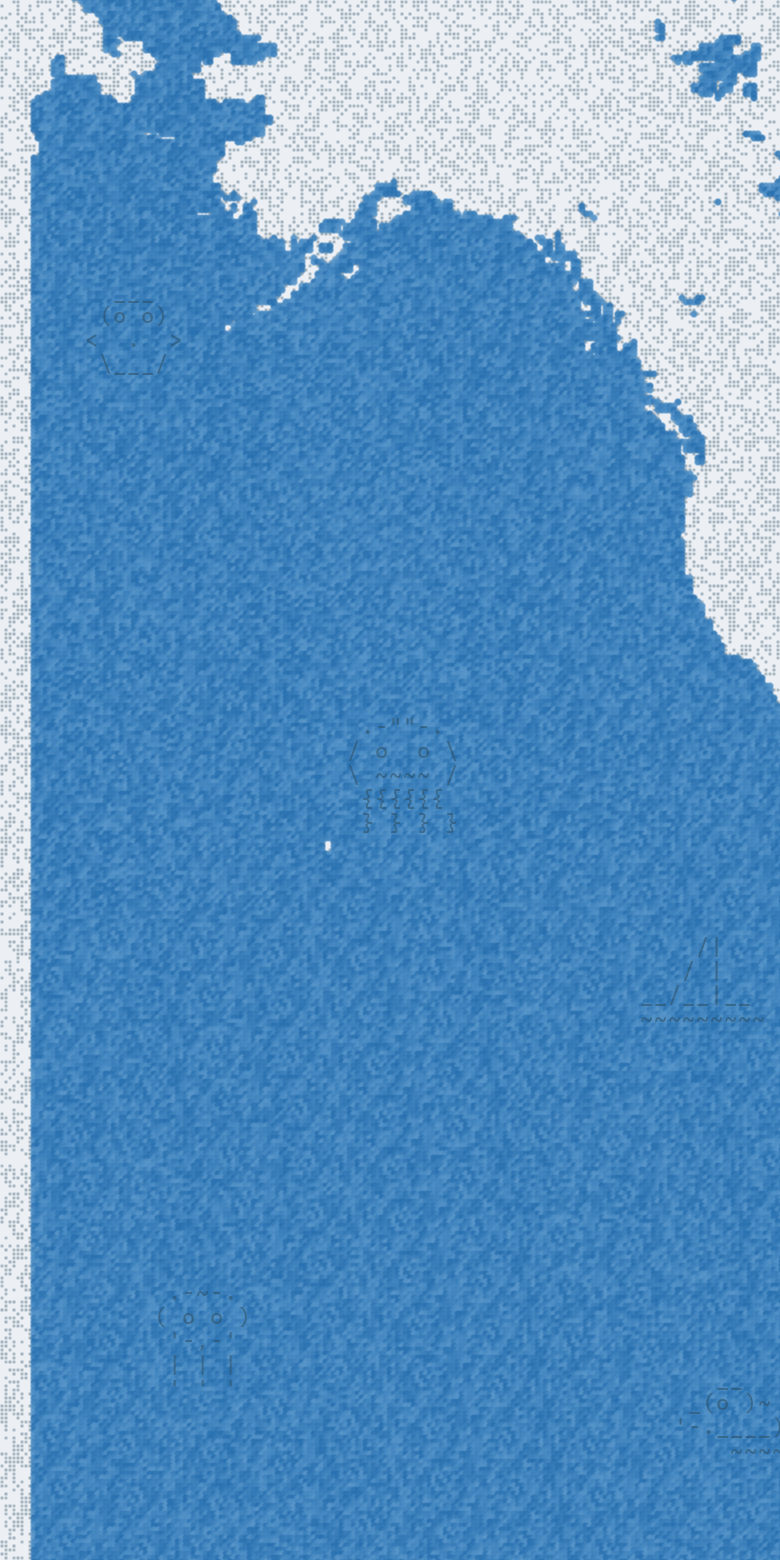
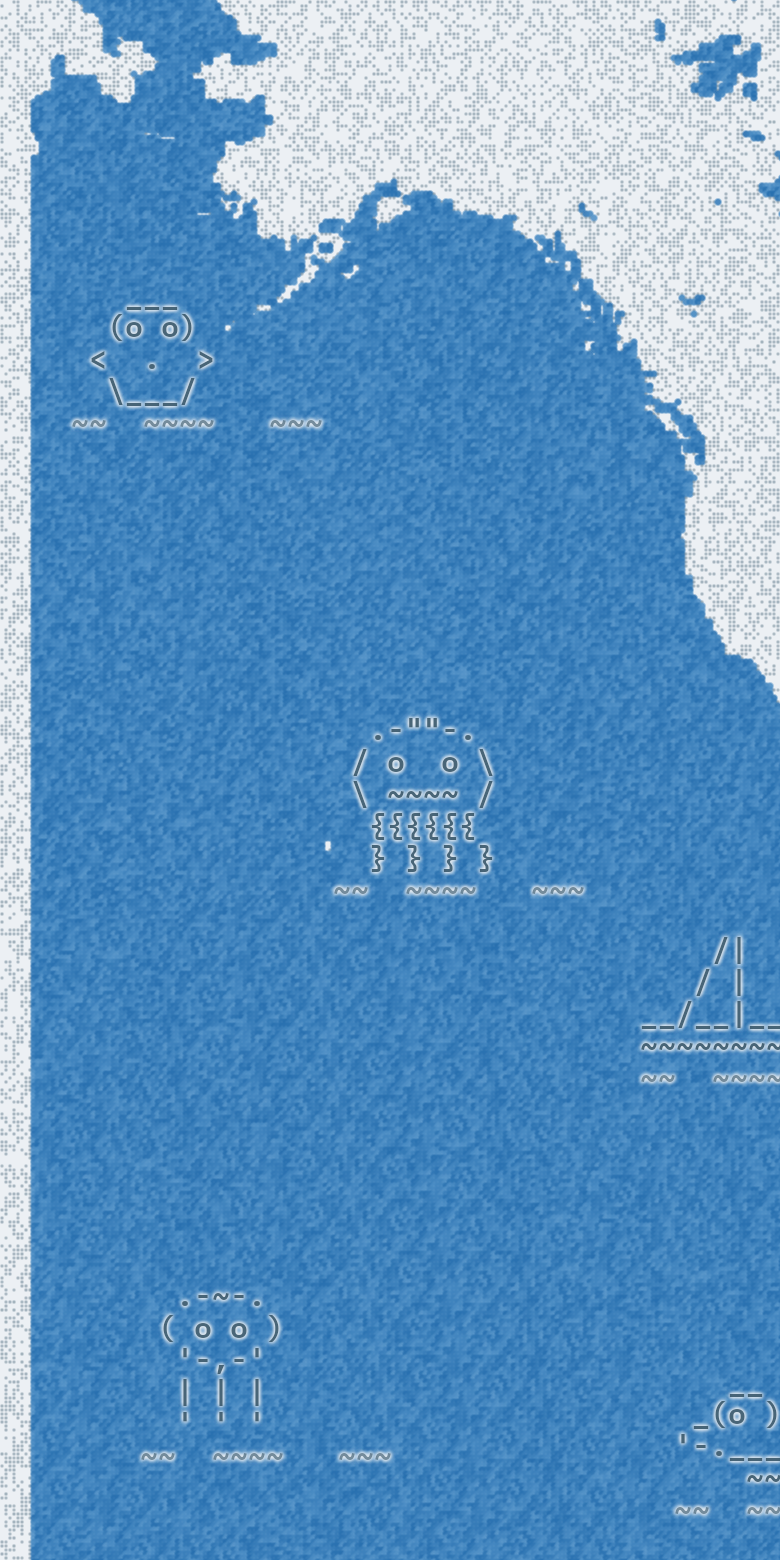
feat(map): make the ocean cryptids read
They were barely noticeable. Four things were wrong at once, and the halo is the
one that actually mattered.

A stippled dot field is the worst possible ground for thin ASCII: the strokes
and the dots are the same width, so an outline dissolves into the water however
dark you make the ink. Every glyph now sits on a background-coloured halo — the
same trick the name chips use, which are on an island-coloured plate for exactly
this reason, minus the hard chip edge that would look wrong around a piece of
art. It inverts correctly for free: in a dark scheme the halo is dark and the ink
is light, so one rule pops in both.

The rest is weight. IBM Plex Mono 600 instead of 500 (already loaded by
`app/_layout.tsx`, so no new font), 15px instead of 11, and full opacity instead
of 0.55.

Each figure also gets a wave row beneath it, drifting COUNTER to the figure's own
bob — the relative motion is what reads as swimming; waves moving with the
creature would just look like part of it. The row is picked per anchor by the
same hash that seeds the drift, so a group of them never lines up into one ruled
edge.

`map-shot.ts` mirrors all of it, including the halo (a repeated blurred pass,
since one Skia blur is far fainter than RN's solid `textShadowRadius` glow), so
the committed render stays the real thing rather than an impression of it.

Claude-Session: https://claude.ai/code/session_01FdQ34XoZvmjvJB2ost5gDi

diff --git a/src/features/map/render/ocean-cryptid-layer.tsx b/src/features/map/render/ocean-cryptid-layer.tsx
@@ -34,8 +34,30 @@ const DRIFT_MS = 9000;
 /** Drift amplitude in screen px — a slow swim, not a bounce. */
 const DRIFT_X = 14;
 const DRIFT_Y = 7;
-/** Ceiling on the layer's own opacity, so cryptids never compete with the map. */
-const MAX_OPACITY = 0.55;
+/**
+ * Ceiling on the layer's own opacity. Decoration, but decoration nobody notices
+ * is not decoration — at 0.55 over a full-strength water field these read as
+ * smudges rather than creatures.
+ */
+const MAX_OPACITY = 1;
+/**
+ * Halo radius (px) behind every glyph, painted in the canvas background.
+ *
+ * This is what actually makes them pop, and it is the same trick the name chips
+ * use — they sit on an island-coloured plate for exactly this reason. A stippled
+ * dot field is the worst possible ground for thin ASCII: the strokes and the
+ * dots are the same width, so the outline dissolves into the water no matter how
+ * dark the ink. Clearing a little background behind each glyph separates the
+ * figure from the sea without a hard chip edge around a piece of art.
+ *
+ * It also inverts correctly for free: in a dark scheme the halo is dark and the
+ * ink is light, so the same rule pops in both.
+ */
+const HALO_RADIUS = 4;
+/** Waves sit behind the creature, so they stay a fraction of its weight. */
+const WAVE_OPACITY_FACTOR = 0.7;
+/** Wave drift, counter to the figure's — the relative motion is what swims. */
+const WAVE_DRIFT_X = -9;
 
 /**
  * Sea cryptids drifting through the oceans and the polar void at far-out zooms.
@@ -72,6 +94,8 @@ export function OceanCryptidLayer({
   // the canvas in both schemes, which is exactly the job here.
   const [r, g, b] = palette.streetLabel;
   const color = `rgb(${r}, ${g}, ${b})`;
+  const [hr, hg, hb] = palette.bg;
+  const halo = `rgb(${hr}, ${hg}, ${hb})`;
 
   return (
     <>
@@ -81,6 +105,7 @@ export function OceanCryptidLayer({
           <DriftingCryptid
             art={cryptid.art}
             color={color}
+            halo={halo}
             key={cryptid.id}
             opacity={opacity}
             phase={cryptid.phase}
@@ -88,6 +113,7 @@ export function OceanCryptidLayer({
             scale={scale}
             translateX={translateX}
             translateY={translateY}
+            waves={cryptid.waves}
             x={x}
             y={y}
           />
@@ -100,23 +126,27 @@ export function OceanCryptidLayer({
 function DriftingCryptid({
   art,
   color,
+  halo,
   opacity,
   phase,
   reducedMotion,
   scale,
   translateX,
   translateY,
+  waves,
   x,
   y,
 }: {
   readonly art: string;
   readonly color: string;
+  readonly halo: string;
   readonly opacity: number;
   readonly phase: number;
   readonly reducedMotion: boolean;
   readonly scale: SharedValue<number>;
   readonly translateX: SharedValue<number>;
   readonly translateY: SharedValue<number>;
+  readonly waves: string;
   readonly x: number;
   readonly y: number;
 }) {
@@ -153,6 +183,11 @@ function DriftingCryptid({
     }),
     [x, y]
   );
+  // The waves ride the same driver but slide the other way, so the creature
+  // reads as moving THROUGH water rather than the whole glyph sliding around.
+  const waveStyle = useAnimatedStyle(() => ({
+    transform: [{ translateX: Math.sin(drift.value * Math.PI * 2) * WAVE_DRIFT_X }],
+  }));
 
   return (
     <Animated.View
@@ -161,11 +196,28 @@ function DriftingCryptid({
       pointerEvents="none"
       style={[styles.figure, positionStyle]}
     >
-      <Text allowFontScaling={false} style={[styles.art, { color, opacity }]}>
+      <Text allowFontScaling={false} style={[styles.art, haloStyle(halo), { color, opacity }]}>
         {art}
       </Text>
+      <Animated.View style={waveStyle}>
+        <Text
+          allowFontScaling={false}
+          style={[styles.art, haloStyle(halo), { color, opacity: opacity * WAVE_OPACITY_FACTOR }]}
+        >
+          {waves}
+        </Text>
+      </Animated.View>
     </Animated.View>
   );
+}
+
+/** The background-coloured glow that lifts a glyph off the dot field. */
+function haloStyle(halo: string) {
+  return {
+    textShadowColor: halo,
+    textShadowOffset: { width: 0, height: 0 },
+    textShadowRadius: HALO_RADIUS,
+  } as const;
 }
 
 const styles = StyleSheet.create({
@@ -178,9 +230,12 @@ const styles = StyleSheet.create({
     zIndex: 0,
   },
   art: {
-    fontFamily: 'IBMPlexMono_500Medium',
-    fontSize: 11,
+    // The heaviest mono face the app loads (see `app/_layout.tsx`). At 500 these
+    // dissolved into the water dots; the extra weight is what makes an ASCII
+    // outline hold together over a stippled field.
+    fontFamily: 'IBMPlexMono_600SemiBold',
+    fontSize: 15,
     includeFontPadding: false,
-    lineHeight: 12,
+    lineHeight: 16,
   },
 });

diff --git a/scripts/map-shot.ts b/scripts/map-shot.ts
@@ -158,6 +158,14 @@ const LEGACY_RIVER_WIDTH = 5;
 /** Line break inside a cryptid's ASCII art. */
 const NEWLINE = '\n';
 
+/**
+ * Halo blur sigma, and how many times to lay it down. RN's `textShadowRadius` is
+ * a solid glow; one blurred Skia pass is far fainter, so it is repeated to reach
+ * a comparable weight.
+ */
+const HALO_SIGMA = 2.2;
+const HALO_PASSES = 4;
+
 const args = parseArgs(process.argv.slice(2));
 const tileUrl = process.env.EXPO_PUBLIC_TILE_URL;
 if (!tileUrl) {
@@ -212,6 +220,16 @@ async function main(): Promise<void> {
         )
       : null;
   if ((args.labels || args.cryptids) && !typeface) throw new Error('failed to load IBM Plex Mono');
+  // The cryptid layer uses the heavier face the app loads for it.
+  const boldTypeface = args.cryptids
+    ? CanvasKit.Typeface.MakeFreeTypeFaceFromData(
+        (
+          await readFile(
+            'node_modules/@expo-google-fonts/ibm-plex-mono/600SemiBold/IBMPlexMono_600SemiBold.ttf'
+          )
+        ).buffer
+      )
+    : null;
 
   for (const place of places) {
     const home = latLonToWorld({ lat: place.lat, lon: place.lon });
@@ -243,6 +261,7 @@ async function main(): Promise<void> {
         layers,
         cellField,
         typeface,
+        boldTypeface,
         // The real selectors, called exactly as the app calls them.
         // Mirrors `map-view.tsx`: a stop name hides with the lines it belongs to.
         labels: args.labels
@@ -310,6 +329,7 @@ interface ShotInput {
   /** Baked exploration cells for this region, or null for a plain city render. */
   cellField: ReturnType<typeof buildCellField> | null;
   typeface: any;
+  boldTypeface: any;
   /** Name chips to draw over the field (--labels), or null. */
   labels: readonly MapLabel[] | null;
   /** Sea cryptids to draw (--cryptids), or null. */
@@ -328,6 +348,7 @@ function renderShot({
   layers,
   cellField,
   typeface,
+  boldTypeface,
   labels,
   cryptids,
   chrome,
@@ -419,8 +440,8 @@ function renderShot({
   if (labels && typeface) {
     drawLabels(CanvasKit, canvas, labels, spec, palette, chrome, typeface, offX, offY);
   }
-  if (cryptids && typeface) {
-    drawCryptids(CanvasKit, canvas, cryptids, spec, camera, palette, typeface, offX, offY);
+  if (cryptids && boldTypeface) {
+    drawCryptids(CanvasKit, canvas, cryptids, spec, camera, palette, boldTypeface, offX, offY);
   }
 
   const snapshot = surface.makeImageSnapshot();
@@ -659,29 +680,52 @@ function drawCryptids(
   spec: RegionSpec,
   camera: CameraState,
   palette: MapPalette,
-  typeface: any,
+  boldTypeface: any,
   offX: number,
   offY: number
 ): void {
   const scale = scaleFor(spec.zoom);
-  const opacity = oceanCryptidOpacity(camera.zoom) * 0.55;
+  const opacity = oceanCryptidOpacity(camera.zoom) * 0.85;
   if (opacity <= 0) return;
   const [r, g, b] = palette.streetLabel;
 
-  const font = new CanvasKit.Font(typeface, 11);
+  const font = new CanvasKit.Font(boldTypeface, 15);
   const paint = new CanvasKit.Paint();
   paint.setColor(CanvasKit.Color(r, g, b, opacity));
   paint.setAntiAlias(true);
+  const wavePaint = new CanvasKit.Paint();
+  wavePaint.setColor(CanvasKit.Color(r, g, b, opacity * 0.7));
+  wavePaint.setAntiAlias(true);
+  // The layer's `textShadow` halo, as a blurred pass underneath. Same job: clear
+  // a little background so thin ASCII does not dissolve into the dot field.
+  const [hr, hg, hb] = palette.bg;
+  const haloPaint = new CanvasKit.Paint();
+  haloPaint.setColor(CanvasKit.Color(hr, hg, hb, opacity));
+  haloPaint.setAntiAlias(true);
+  haloPaint.setMaskFilter(
+    CanvasKit.MaskFilter.MakeBlur(CanvasKit.BlurStyle.Normal, HALO_SIGMA, false)
+  );
 
   canvas.save();
   canvas.scale(PIXEL_RATIO, PIXEL_RATIO);
   for (const cryptid of cryptids) {
     const x = (cryptid.world[0] - spec.rect.minX) * scale - offX;
     const y = (cryptid.world[1] - spec.rect.minY) * scale - offY;
-    cryptid.art.split(NEWLINE).forEach((line, i) => {
-      canvas.drawText(line, x, y + i * 12 + 9, paint, font);
+    const lines = [...cryptid.art.split(NEWLINE), cryptid.waves];
+    // Halo first for every row, so one glyph's glow never washes out its neighbour.
+    lines.forEach((line, i) => {
+      const baseline = y + i * 16 + 12;
+      for (let pass = 0; pass < HALO_PASSES; pass++) {
+        canvas.drawText(line, x, baseline, haloPaint, font);
+      }
+    });
+    lines.forEach((line, i) => {
+      const isWaves = i === lines.length - 1;
+      canvas.drawText(line, x, y + i * 16 + 12, isWaves ? wavePaint : paint, font);
     });
   }
+  haloPaint.delete();
+  wavePaint.delete();
   paint.delete();
   font.delete();
   canvas.restore();

diff --git a/src/features/map/core/ocean-cryptids.ts b/src/features/map/core/ocean-cryptids.ts
@@ -36,6 +36,19 @@ export const SEA_CRYPTIDS: readonly SeaCryptid[] = [
   { id: 'drifter', art: art('   ___', '  (o o)', ' <  .  >', '  \\___/') },
 ] as const;
 
+/**
+ * Wave rows drawn under a cryptid, so it reads as something IN water rather than
+ * a glyph floating over it. Chosen per anchor by the same hash that seeds the
+ * drift, and drifting counter to the figure — the relative motion is what sells
+ * the swim; a wave that moved with the creature would just look like part of it.
+ */
+export const SEA_WAVES: readonly string[] = [
+  '~~~   ~~~~  ~~',
+  ' ~~~~~   ~~   ',
+  '~~  ~~~~   ~~~',
+  '  ~~~   ~~~~ ~',
+] as const;
+
 /** A cryptid parked at a fixed spot in the world. */
 export interface OceanAnchor {
   readonly id: string;
@@ -111,6 +124,8 @@ export interface PlacedCryptid {
   readonly id: string;
   readonly world: WorldPoint;
   readonly art: string;
+  /** The wave row drawn beneath it — see {@link SEA_WAVES}. */
+  readonly waves: string;
   /** Stable 0–1 seed: staggers each figure's drift so they never move in lockstep. */
   readonly phase: number;
 }
@@ -150,11 +165,13 @@ export function visibleOceanCryptids(
     if (placed.length >= max) break;
     const [x, y] = anchor.world;
     if (x < grown.minX || x > grown.maxX || y < grown.minY || y > grown.maxY) continue;
+    const phase = anchorPhase(anchor.id);
     placed.push({
       id: anchor.id,
       world: anchor.world,
       art: SEA_CRYPTIDS[anchor.figure % SEA_CRYPTIDS.length].art,
-      phase: anchorPhase(anchor.id),
+      waves: SEA_WAVES[Math.floor(phase * SEA_WAVES.length) % SEA_WAVES.length],
+      phase,
     });
   }
   return placed;

diff --git a/src/features/map/core/__tests__/ocean-cryptids.test.ts b/src/features/map/core/__tests__/ocean-cryptids.test.ts
@@ -5,6 +5,7 @@ import {
   OCEAN_CRYPTID_MAX_ZOOM,
   oceanCryptidOpacity,
   SEA_CRYPTIDS,
+  SEA_WAVES,
   visibleOceanCryptids,
 } from '../ocean-cryptids';
 import type { CameraState, Viewport } from '../types';
@@ -79,6 +80,17 @@ describe('visibleOceanCryptids', () => {
 
   it('is deterministic for the same camera', () => {
     expect(visibleOceanCryptids(globe, viewport)).toEqual(visibleOceanCryptids(globe, viewport));
+  });
+
+  it('gives every figure a wave row from the table', () => {
+    const placed = visibleOceanCryptids(globe, viewport);
+    expect(placed.length).toBeGreaterThan(0);
+    for (const cryptid of placed) {
+      expect(SEA_WAVES).toContain(cryptid.waves);
+      expect(cryptid.waves).toContain('~');
+    }
+    // Waves vary across figures, so a row of them doesn't read as one ruled line.
+    expect(new Set(placed.map((c) => c.waves)).size).toBeGreaterThan(1);
   });
 
   it('gives each figure a distinct drift phase', () => {
